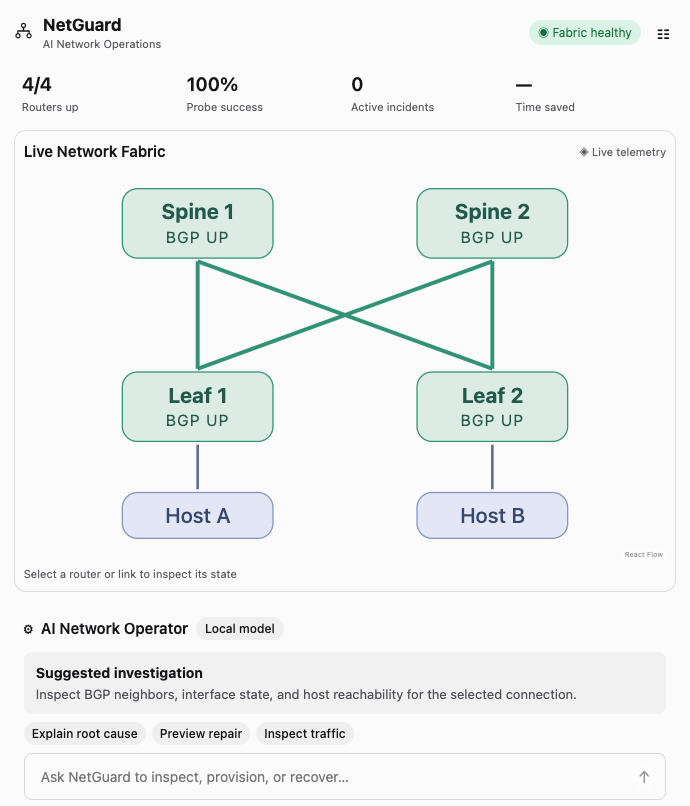
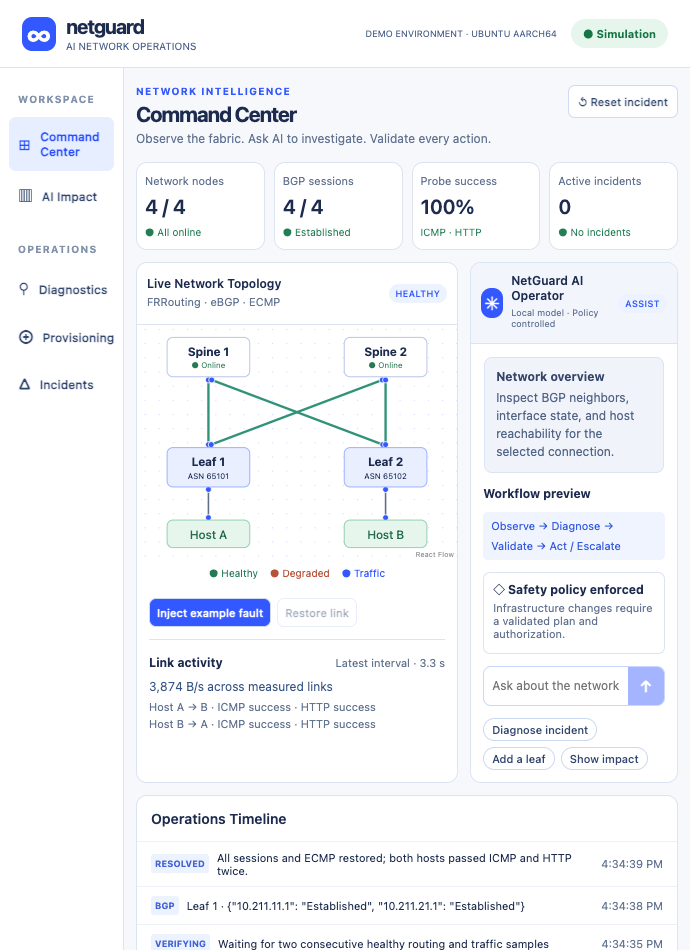
Record the live transmission walkthrough and counter semantics

diff --git a/docs/OPERATOR.md b/docs/OPERATOR.md
@@ -12,6 +12,10 @@ Open the Ubuntu dashboard on port 3001 through its SSH tunnel, or run `make demo
 
 A single API orchestrates observation, inference and execution. Changes use fixed tools and explicit target parameters. Expansion adds up to two leaves with isolated transit segments, 192 MiB and half a CPU per leaf. Applying or rolling back an expansion recreates both spines and can interrupt traffic. The preview and event log persist across reloads. Use the Makefile lifecycle commands for an expanded Desktop fabric. On Ubuntu, use the guest Python and the dashboard's same `NETGUARD_TIMELINE_DB` with `python -m scripts.fabric_compose up|down|reset`.
 
+## Reading live transmission
+
+The Command Center samples Linux packet and byte counters at each leaf. Blue markers animate only in directions with a positive packet delta during the latest valid interval. Select a link to read its received and transmitted packet counts. The byte rate sums measured interfaces and can count forwarded traffic at multiple links. BGP session state and bidirectional ICMP and HTTP probe outcomes appear separately. Historical replay has no live counter animation.
+
 ## Reading the impact panel
 
 Choose **Human operator** or **Local AI** when starting a graph-selected fault. A manual run requires the operator to record a diagnosis. Diagnosis timing runs from the first observed signal to a correct decision. Recovery requires observed loss followed by two successful probe rounds. Verified closure includes the restoration and checks. Provisioning starts when the request arrives and ends after verification.
